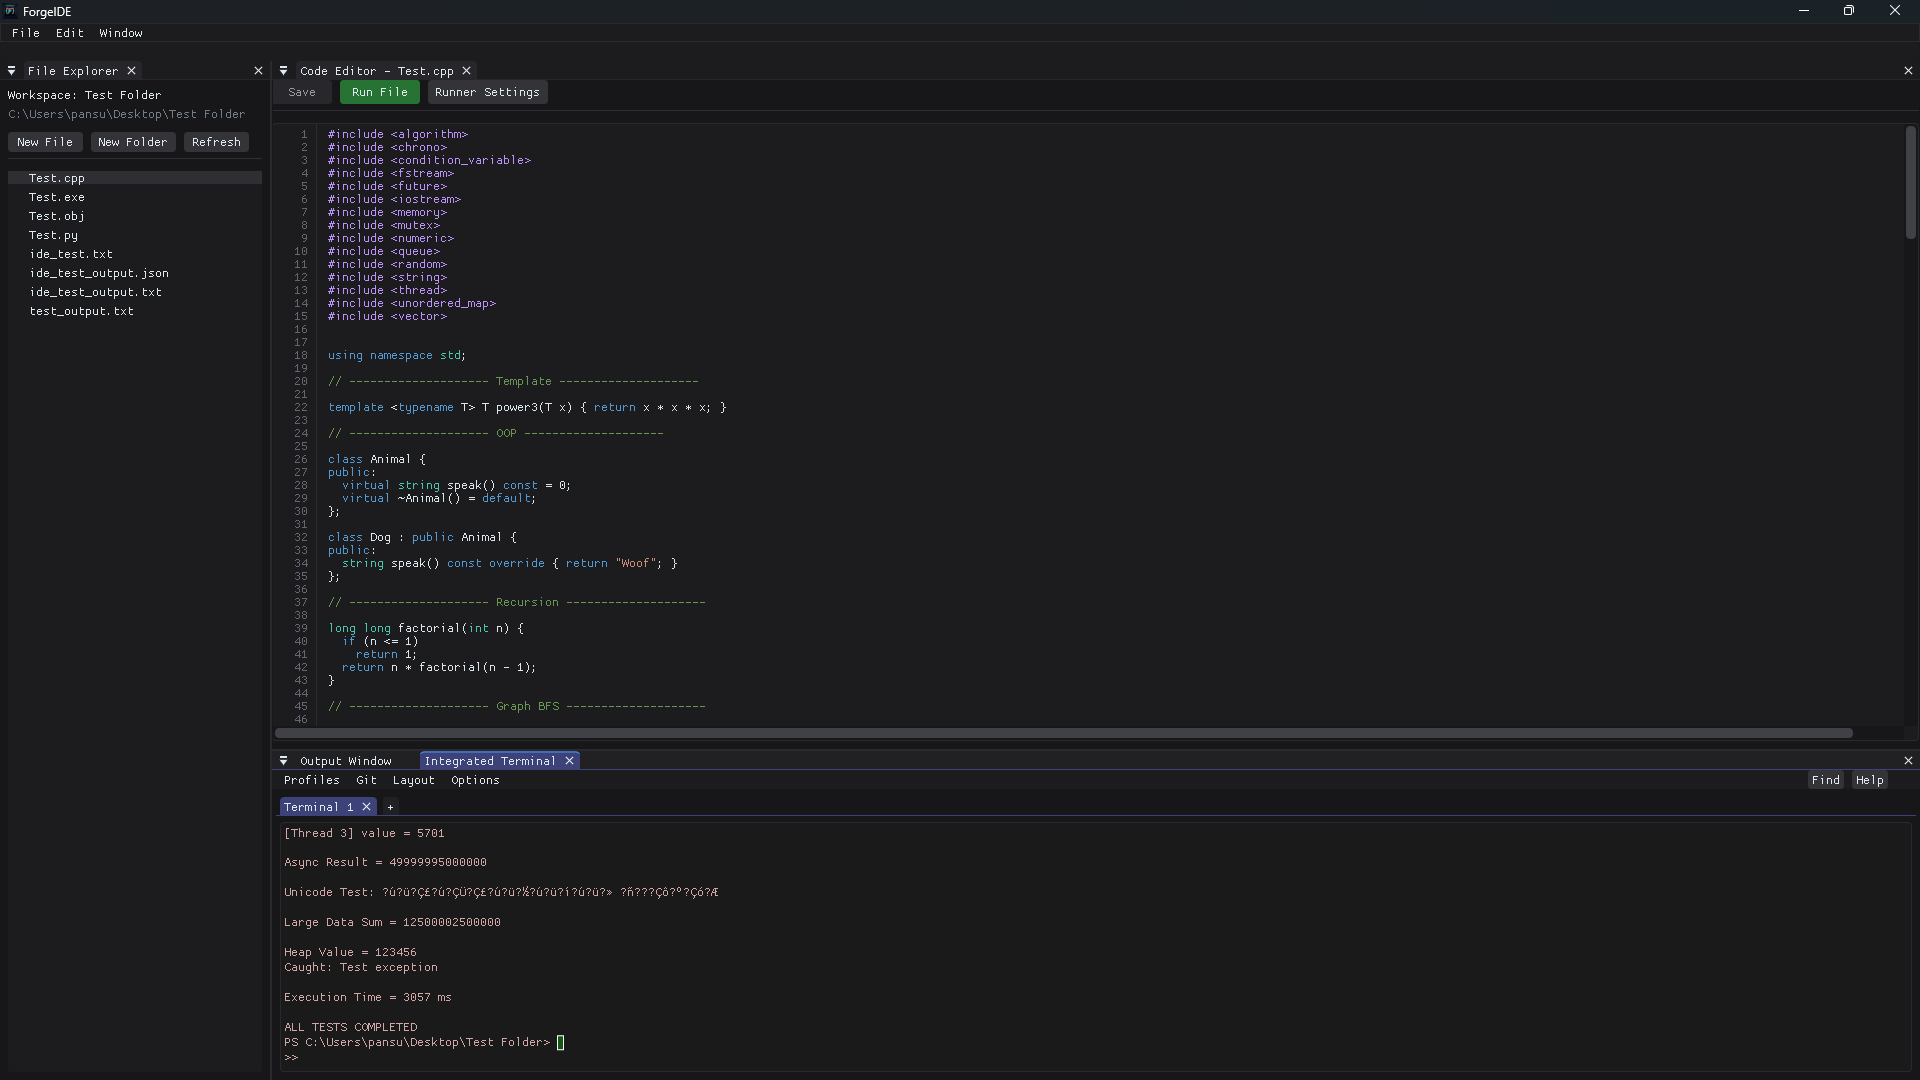
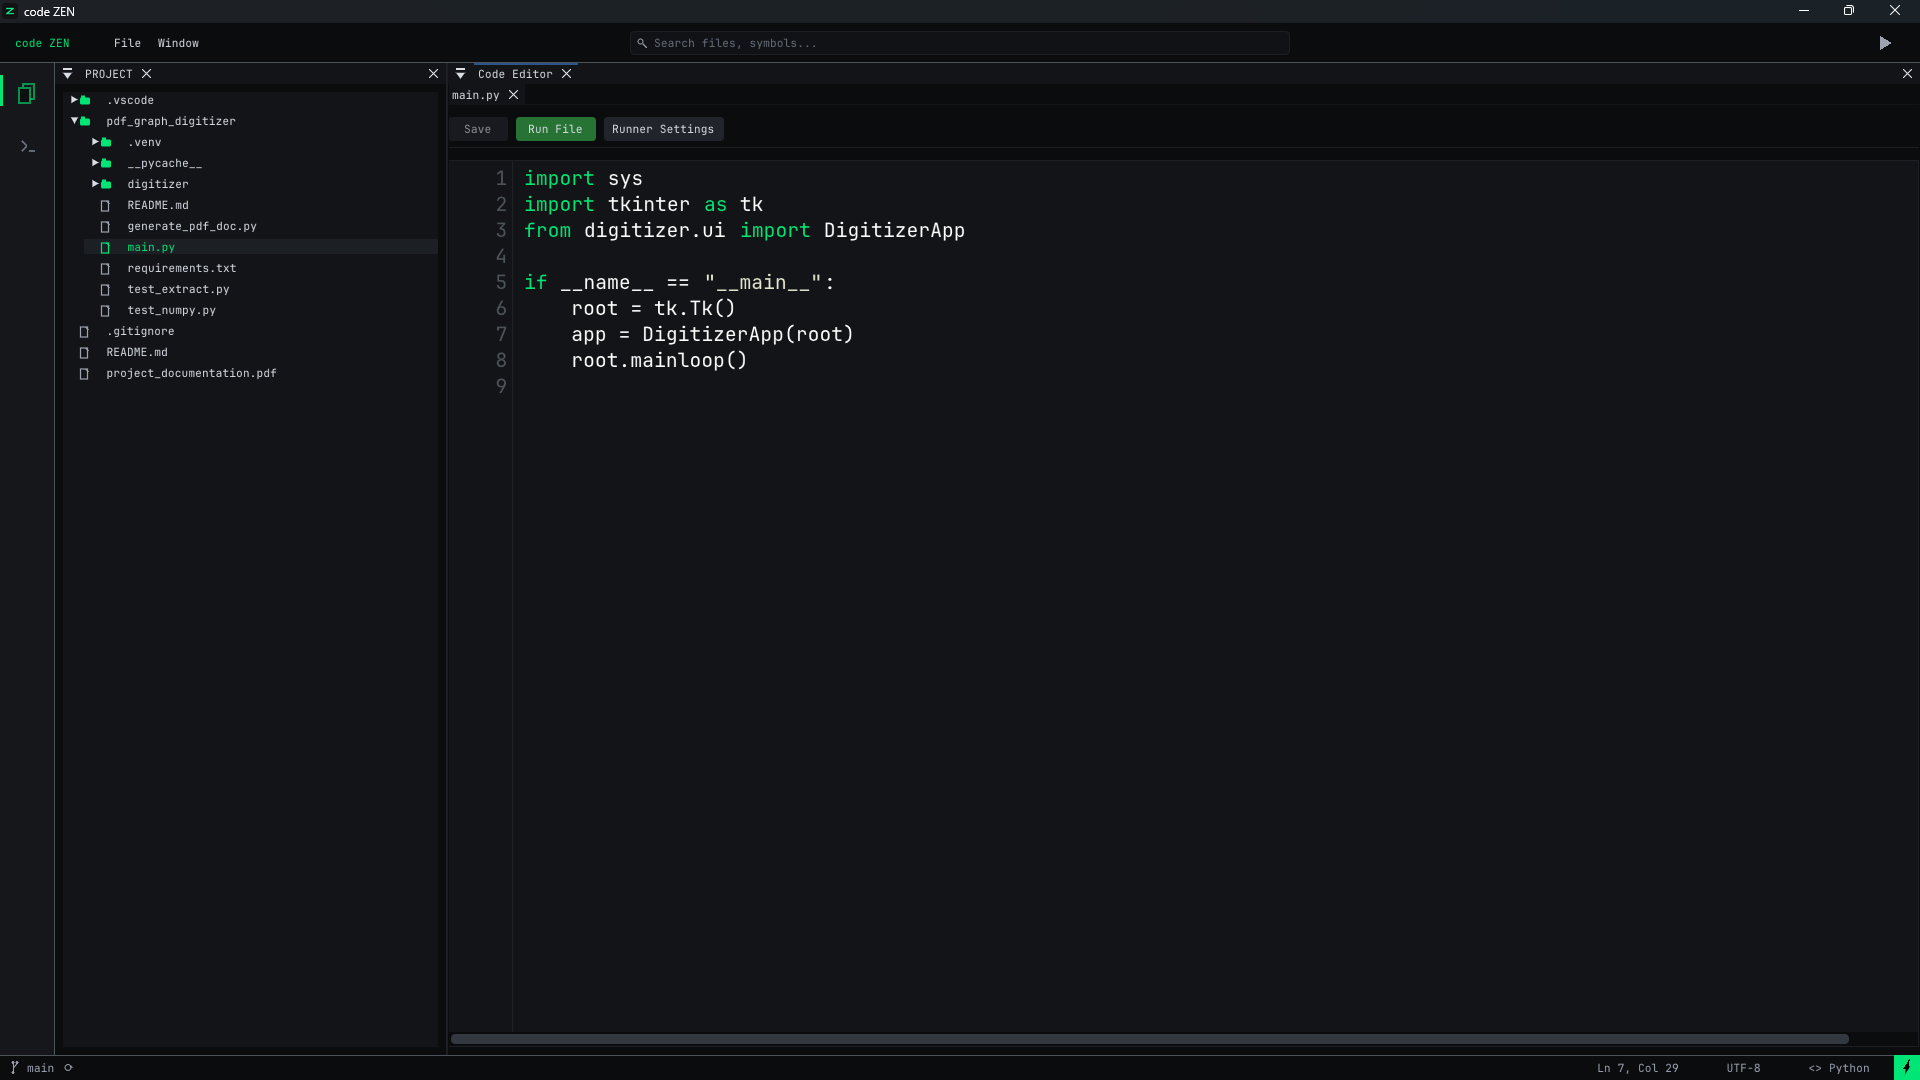
Minor fixes

diff --git a/src/sections/Works.jsx b/src/sections/Works.jsx
@@ -579,6 +579,11 @@ const Works = () => {
                                                 className={`pl-4 pr-2 py-5 border-l-2 transition-all duration-300 cursor-pointer group flex justify-between items-center relative ${isActive ? 'border-l-orange-600 bg-[#fafafa]/45 text-orange-600 font-bold' : 'border-l-transparent hover:bg-[#fafafa]/25'}`}
                                                 onMouseEnter={() => handleProjectHover({ type: 'unreal', ...project })}
                                                 onMouseLeave={handleProjectLeave}
+                                                onClick={() => {
+                                                    if (project.Link) {
+                                                        window.open(project.Link, '_blank', 'noopener,noreferrer');
+                                                    }
+                                                }}
                                             >
                                                 <div className="flex flex-col pl-2">
                                                     <span className="text-[9px] text-neutral-400 tracking-wider mb-1 block uppercase">
@@ -588,14 +593,11 @@ const Works = () => {
                                                         {project.name}
                                                     </span>
                                                 </div>
-                                                <a
-                                                    href={project.Link}
-                                                    target="_blank"
-                                                    rel="noopener noreferrer"
+                                                <span
                                                     className={`pr-2 transition-all duration-300 ${isActive ? 'opacity-100 scale-105' : 'opacity-0 group-hover:opacity-100'}`}
                                                 >
                                                     <Icon icon="ion:arrow-up-right-box-outline" className="text-orange-600" width="16" height="16" />
-                                                </a>
+                                                </span>
                                             </div>
                                         );
                                     })}
@@ -627,6 +629,11 @@ const Works = () => {
                                                 className={`pl-4 pr-2 py-5 border-l-2 transition-all duration-300 cursor-pointer group flex justify-between items-center relative ${isActive ? 'border-l-orange-600 bg-[#fafafa]/45 text-orange-600 font-bold' : 'border-l-transparent hover:bg-[#fafafa]/25'}`}
                                                 onMouseEnter={() => handleProjectHover({ type: 'blender', ...project })}
                                                 onMouseLeave={handleProjectLeave}
+                                                onClick={() => {
+                                                    if (project.link) {
+                                                        window.open(project.link, '_blank', 'noopener,noreferrer');
+                                                    }
+                                                }}
                                             >
                                                 <div className="flex flex-col pl-2">
                                                     <span className="text-[9px] text-neutral-400 tracking-wider mb-1 block uppercase">
@@ -636,14 +643,11 @@ const Works = () => {
                                                         {project.name}
                                                     </span>
                                                 </div>
-                                                <a
-                                                    href={project.link}
-                                                    target="_blank"
-                                                    rel="noopener noreferrer"
+                                                <span
                                                     className={`pr-2 transition-all duration-300 ${isActive ? 'opacity-100 scale-105' : 'opacity-0 group-hover:opacity-100'}`}
                                                 >
                                                     <Icon icon="ion:arrow-up-right-box-outline" className="text-orange-600" width="16" height="16" />
-                                                </a>
+                                                </span>
                                             </div>
                                         );
                                     })}
@@ -689,6 +693,11 @@ const Works = () => {
                                                     className={`gsap-coding-row pl-4 pr-2 py-5 border-l-2 transition-all duration-300 cursor-pointer group flex justify-between items-center relative ${isActive ? 'border-l-orange-600 bg-[#f4f2ee]/45 text-orange-600 font-bold' : 'border-l-transparent hover:bg-[#f4f2ee]/25'}`}
                                                     onMouseEnter={() => handleProjectHover({ type: 'coding', ...project })}
                                                     onMouseLeave={handleProjectLeave}
+                                                    onClick={() => {
+                                                        if (project.Link) {
+                                                            window.open(project.Link, '_blank', 'noopener,noreferrer');
+                                                        }
+                                                    }}
                                                 >
                                                     <div className="flex flex-col pl-2">
                                                         <span className="text-[9px] text-neutral-400 tracking-wider mb-1 block uppercase">
@@ -698,14 +707,11 @@ const Works = () => {
                                                             {project.name}
                                                         </span>
                                                     </div>
-                                                    <a
-                                                        href={project.Link}
-                                                        target="_blank"
-                                                        rel="noopener noreferrer"
+                                                    <span
                                                         className={`pr-2 transition-all duration-300 ${isActive ? 'opacity-100 scale-105' : 'opacity-0 group-hover:opacity-100'}`}
                                                     >
                                                         <Icon icon="ion:arrow-up-right-box-outline" className="text-orange-600" width="16" height="16" />
-                                                    </a>
+                                                    </span>
                                                 </div>
                                             );
                                         })}
@@ -733,6 +739,12 @@ const Works = () => {
                                                         className={`pl-4 pr-2 py-5 border-l-2 transition-all duration-300 cursor-pointer group flex justify-between items-center relative ${isActive ? 'border-l-orange-600 bg-[#fafafa]/45 text-orange-600 font-bold' : 'border-l-transparent hover:bg-[#fafafa]/25'}`}
                                                         onMouseEnter={() => handleProjectHover({ type: 'vlsi', ...project })}
                                                         onMouseLeave={handleProjectLeave}
+                                                        onClick={() => {
+                                                            const targetLink = project.Link || project.link;
+                                                            if (targetLink) {
+                                                                window.open(targetLink, '_blank', 'noopener,noreferrer');
+                                                            }
+                                                        }}
                                                     >
                                                         <div className="flex flex-col pl-2">
                                                             <span className="text-[9px] text-neutral-400 tracking-wider mb-1 block uppercase">

diff --git a/src/sections/hero.jsx b/src/sections/hero.jsx
@@ -262,11 +262,18 @@ const Hero = ({ IsReady }) => {
                                         return (
                                             <div
                                                 key={i}
-                                                className="absolute left-1/2 top-1/2 pointer-events-auto"
+                                                className="absolute left-1/2 top-1/2 pointer-events-auto cursor-pointer"
                                                 style={{
                                                     transform: `translate(-50%, -50%) rotate(${angle}deg) translate(${isBtnHovered ? (isMobile ? '105px' : '135px') : '0px'}) rotate(-${angle}deg) scale(${isBtnHovered ? 1 : 0})`,
                                                     opacity: isBtnHovered ? 1 : 0,
                                                     transition: `transform 0.6s cubic-bezier(0.34, 1.56, 0.64, 1) ${i * 0.04}s, opacity 0.5s ease ${i * 0.04}s`
+                                                }}
+                                                onClick={() => {
+                                                    const matchedProj = BlenderProjects.find(p => p.image === img);
+                                                    const targetLink = matchedProj ? (matchedProj.link || matchedProj.Link) : null;
+                                                    if (targetLink) {
+                                                        window.open(targetLink, '_blank', 'noopener,noreferrer');
+                                                    }
                                                 }}
                                             >
                                                 {/* Counter-rotating wrapper to keep image upright */}

diff --git a/src/constants/index.js b/src/constants/index.js
@@ -222,9 +222,9 @@ export const CodingProjects = [
     },
     {
         id: 2,
-        name: "Forge IDE (Custom IDE)",
+        name: "code ZEN (Custom IDE)",
         category: "Cpp",
-        Link: "https://github.com/Sudip8900/Forge-IDE-Custom-IDE-.git",
+        Link: "https://github.com/Sudip8900/code-ZEN-Custom-IDE-.git",
         image: "/Images/IDE.png",
         description: `A modern, high-performance IDE built from the ground up with a focus on productivity, extensibility, and developer experience. Features include an advanced integrated terminal, intelligent project management, multi-language support, customizable themes, and a scalable architecture designed to handle projects of any size. The IDE emphasizes performance, clean UI design, and seamless workflow integration for software development across multiple programming languages and frameworks.`,
     }